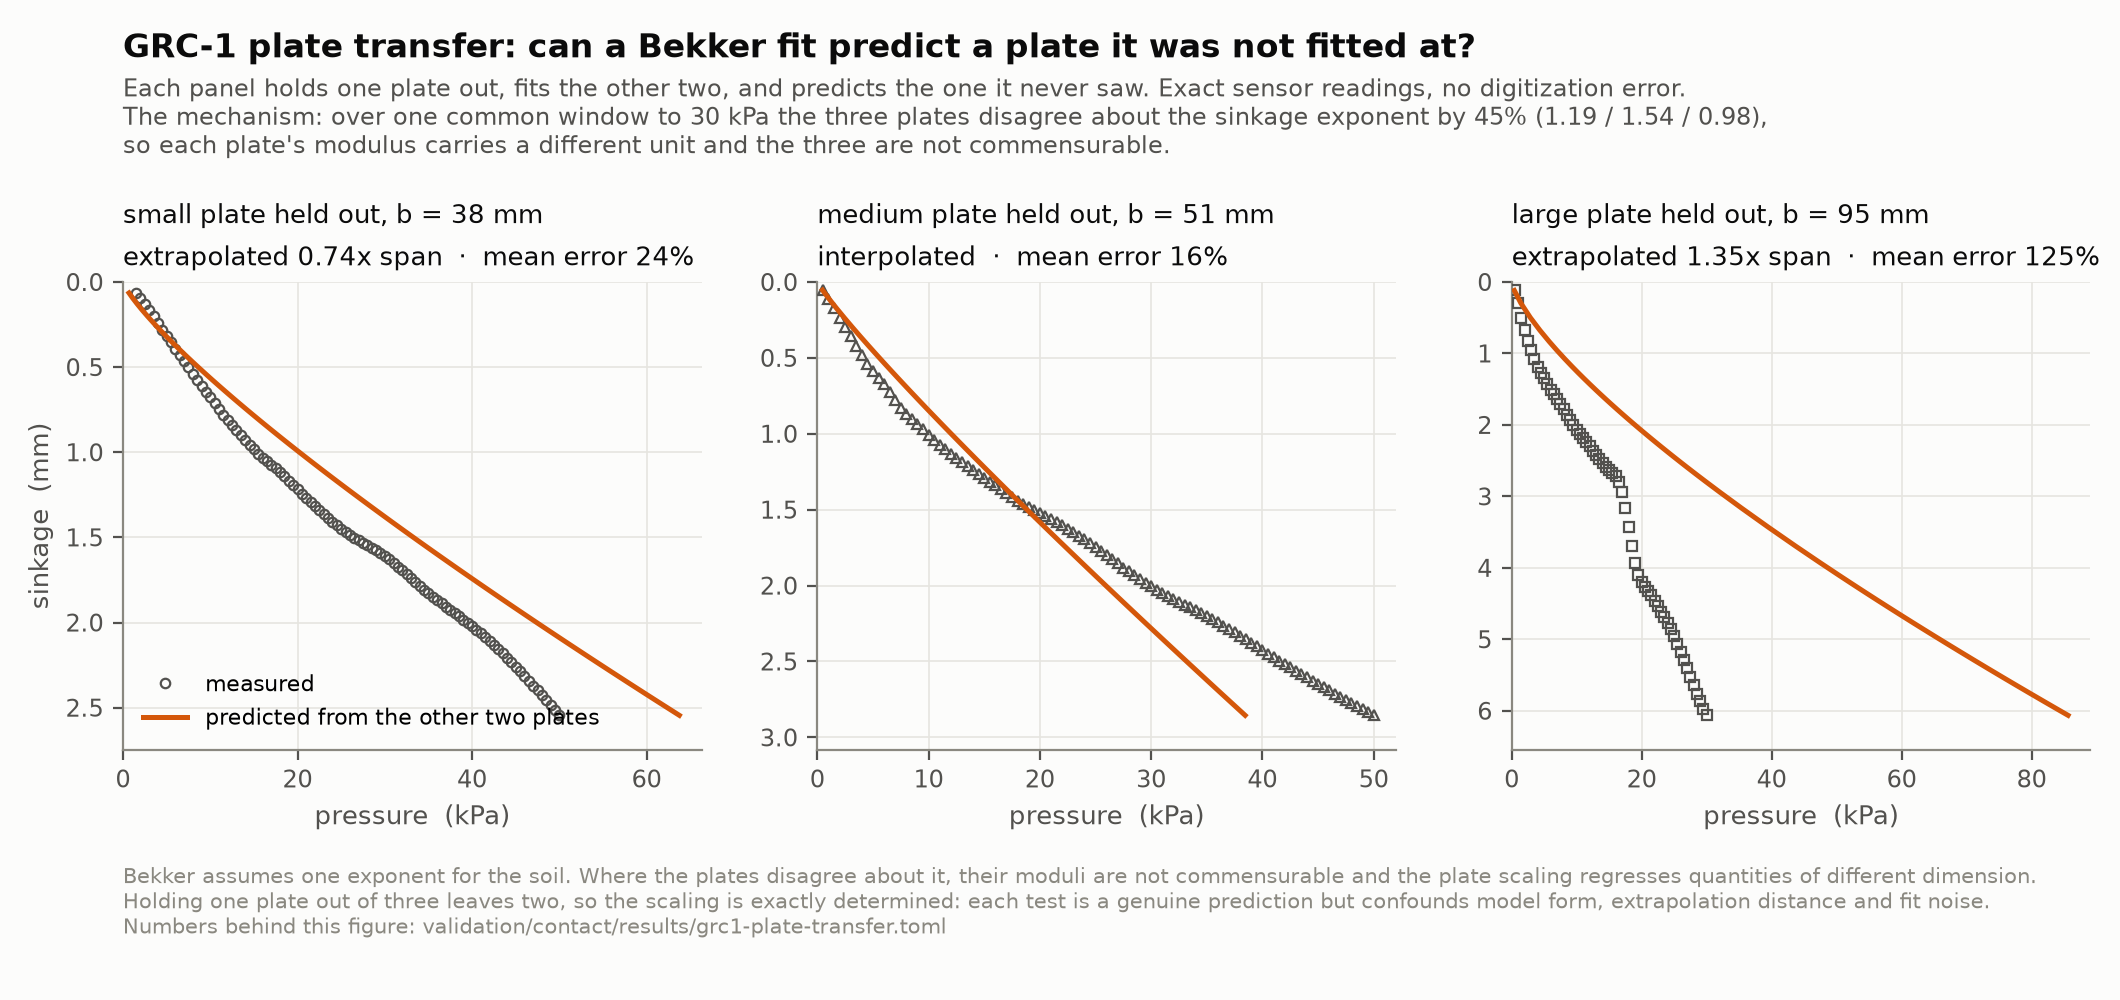
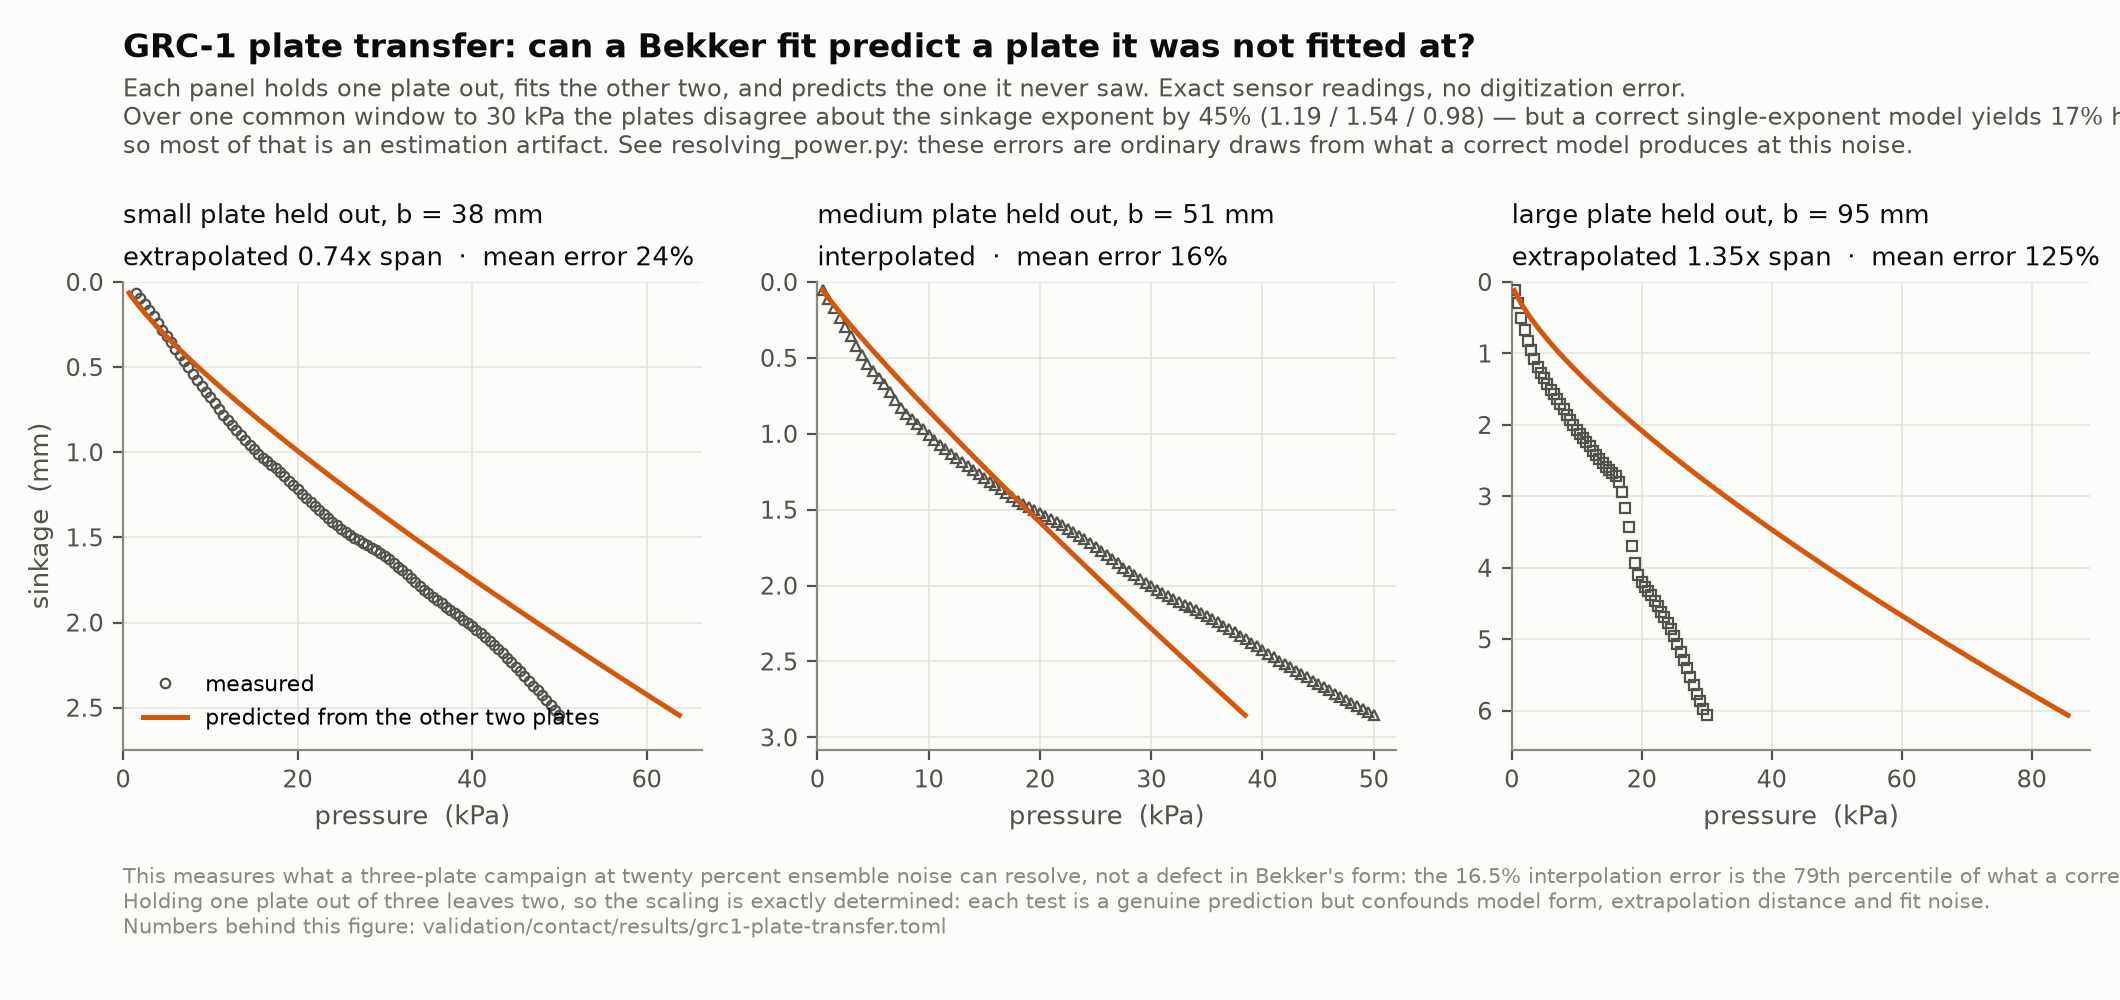
validation: correct the plate-transfer reading, it does not implicate the model

Changed region(s): [[0.0623, 0.093, 1.0, 0.155], [0.0623, 0.868, 1.0, 0.899]]

diff --git a/validation/contact/plate_transfer.py b/validation/contact/plate_transfer.py
@@ -10,18 +10,28 @@
 # needs answered, because a foot is a contact patch at a size no bevameter
 # plate reaches.
 #
-# The answer is negative, and the negative result is the deliverable.
+# The answer is negative, and the negative result is the deliverable. What the
+# negative result means took a second experiment to establish, and it is not
+# what this file originally claimed.
 #
-# Mechanism first: Bekker assumes one sinkage exponent for the soil, and the
-# three plates disagree about it by 35 to 45 percent. That holds when all three
-# are fitted over one common pressure window, so it is a property of the plates
-# rather than of the analysis range. Each plate's own modulus therefore carries
-# units of kN/m^(n+1) at its own n — three different dimensions — and the plate
-# scaling regresses them against 1/b as if they were commensurable. Averaging
-# the exponent is what makes that step possible at all.
+# resolving_power.py generates data from a Bekker process with a single true
+# exponent, at this exact geometry and measured noise, and puts it through this
+# same pipeline. It yields 12.5 percent median interpolation error and 17
+# percent median apparent exponent disagreement. So the errors below are
+# ordinary draws from what a correct model produces anyway: the 16.5 percent
+# interpolation error sits at the 79th percentile of that distribution.
 #
-# Read alongside the window effect in calibration/: both are the same category
-# error. k_c and k_phi are meaningful only at fixed n, and n is not fixed.
+# What is measured here is therefore the resolving power of a three-plate
+# campaign at twenty percent ensemble noise, not a defect in Bekker's form. The
+# earlier reading of this file — that the plates' 45 percent exponent
+# disagreement showed their moduli were incommensurable and the model was
+# failing inside its own range — does not survive: most of that disagreement is
+# an estimation artifact of fitting three noisy curves.
+#
+# The 45 percent is still a 1-in-100 draw under a correct single-exponent model,
+# so something beyond noise may be present. That is suggestive and not more, and
+# one campaign cannot separate a tail draw from a real effect. It is the first
+# concrete question a second well-characterised campaign would answer.
 #
 # Holding one plate out of three leaves two, so the plate scaling is exactly
 # determined — zero residual, no redundancy. Each test is a genuine prediction
@@ -346,22 +356,23 @@ def build_figure(
             0.058, 0.924,
             "Each panel holds one plate out, fits the other two, and predicts the "
             "one it never saw. Exact sensor readings, no digitization error.\n"
-            "The mechanism: over one common window to "
-            f"{common_top_kPa:.0f} kPa the three plates disagree about the sinkage "
+            "Over one common window to "
+            f"{common_top_kPa:.0f} kPa the plates disagree about the sinkage "
             f"exponent by {spread * 100:.0f}% "
-            f"({' / '.join(f'{exponents[p]:.2f}' for p in PLATE_NAMES)}),\n"
-            "so each plate's modulus carries a different unit and the three are "
-            "not commensurable.",
+            f"({' / '.join(f'{exponents[p]:.2f}' for p in PLATE_NAMES)}) — but a "
+            "correct single-exponent model yields 17% here,\nso most of that is "
+            "an estimation artifact. See resolving_power.py: these errors are "
+            "ordinary draws from what a correct model produces at this noise.",
             fontsize=8.5, color=INK_SECONDARY, ha="left", va="top",
         )
         figure.text(
             0.058, 0.135,
-            "Bekker assumes one exponent for the soil. Where the plates disagree "
-            "about it, their moduli are not commensurable and the plate scaling "
-            "regresses quantities of different dimension.\n"
-            "Holding one plate out of three leaves two, so the scaling is exactly "
-            "determined: each test is a genuine prediction but confounds model "
-            "form, extrapolation distance and fit noise.\n"
+            "This measures what a three-plate campaign at twenty percent ensemble "
+            "noise can resolve, not a defect in Bekker's form: the 16.5% "
+            "interpolation error is the 79th percentile of what a correct model "
+            "gives.\nHolding one plate out of three leaves two, so the scaling is "
+            "exactly determined: each test is a genuine prediction but confounds "
+            "model form, extrapolation distance and fit noise.\n"
             f"Numbers behind this figure: {_display_path(report_path)}",
             fontsize=7.5, color=INK_MUTED, ha="left", va="top",
         )
